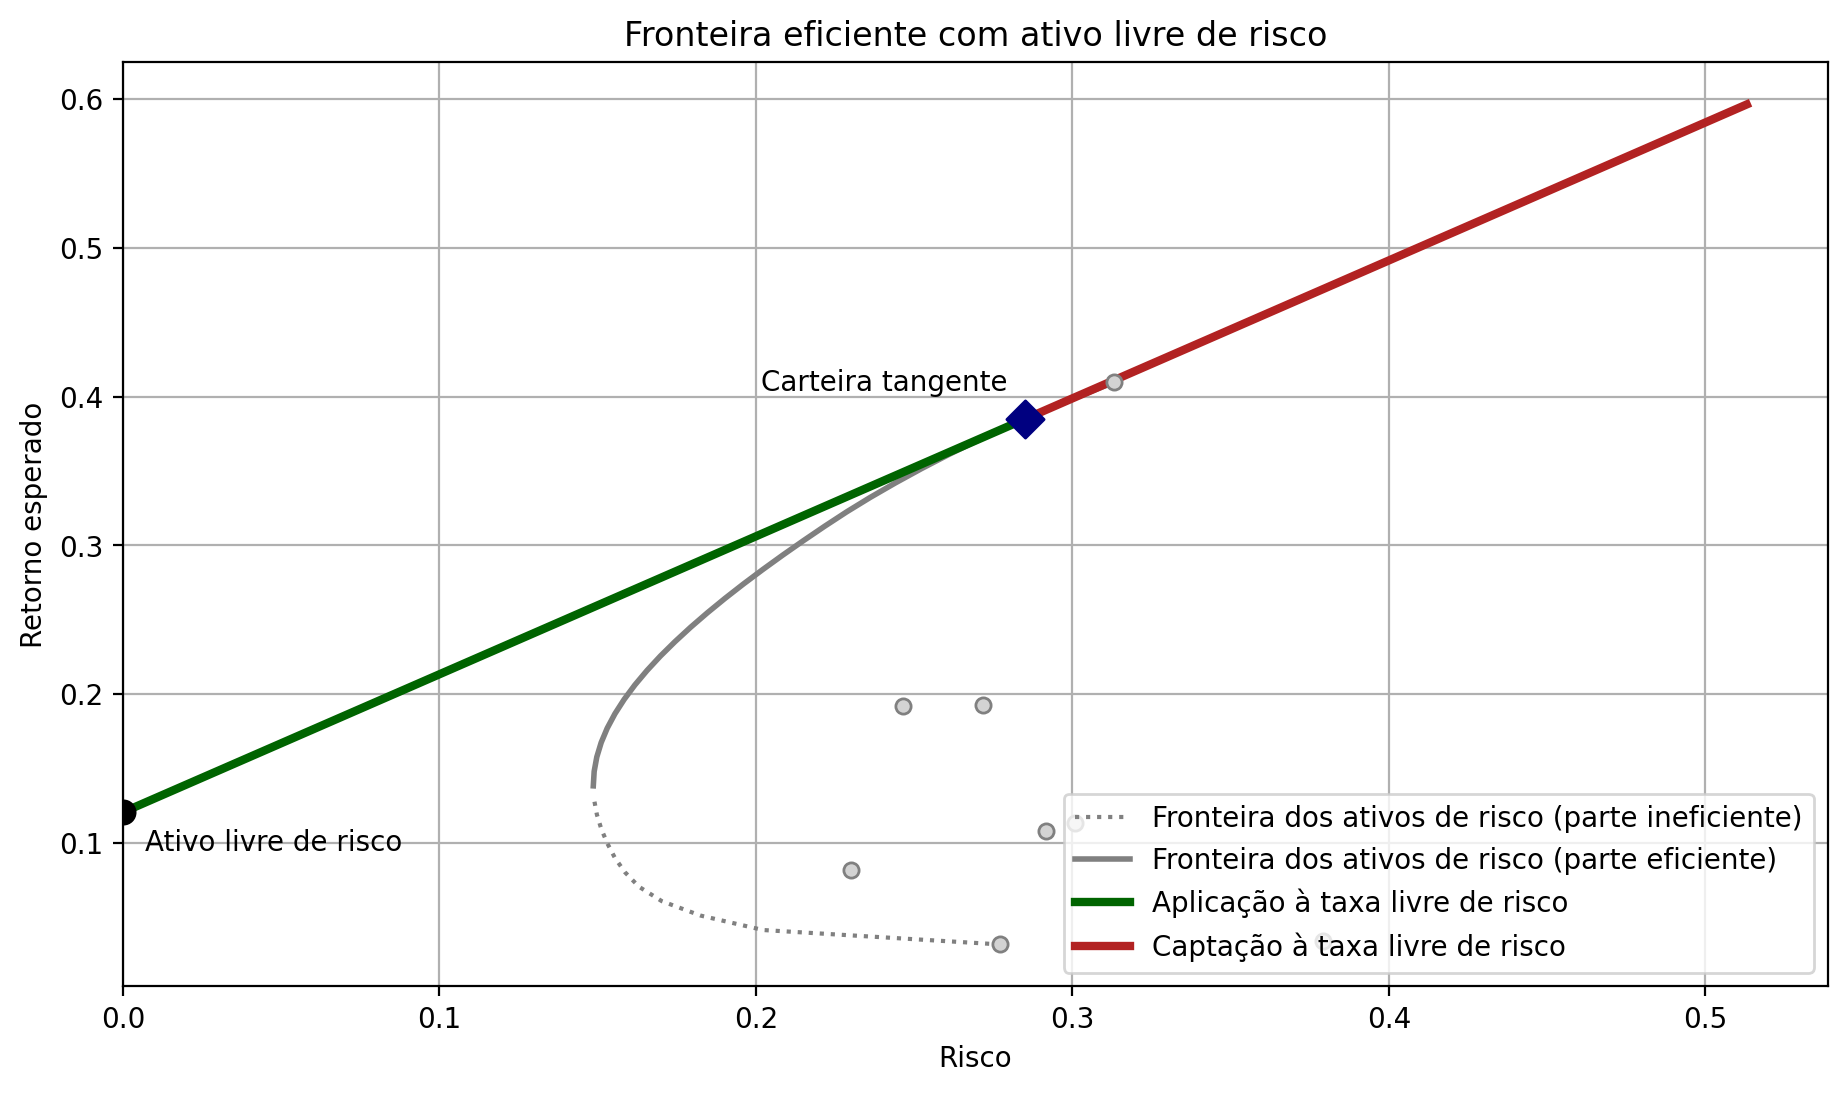
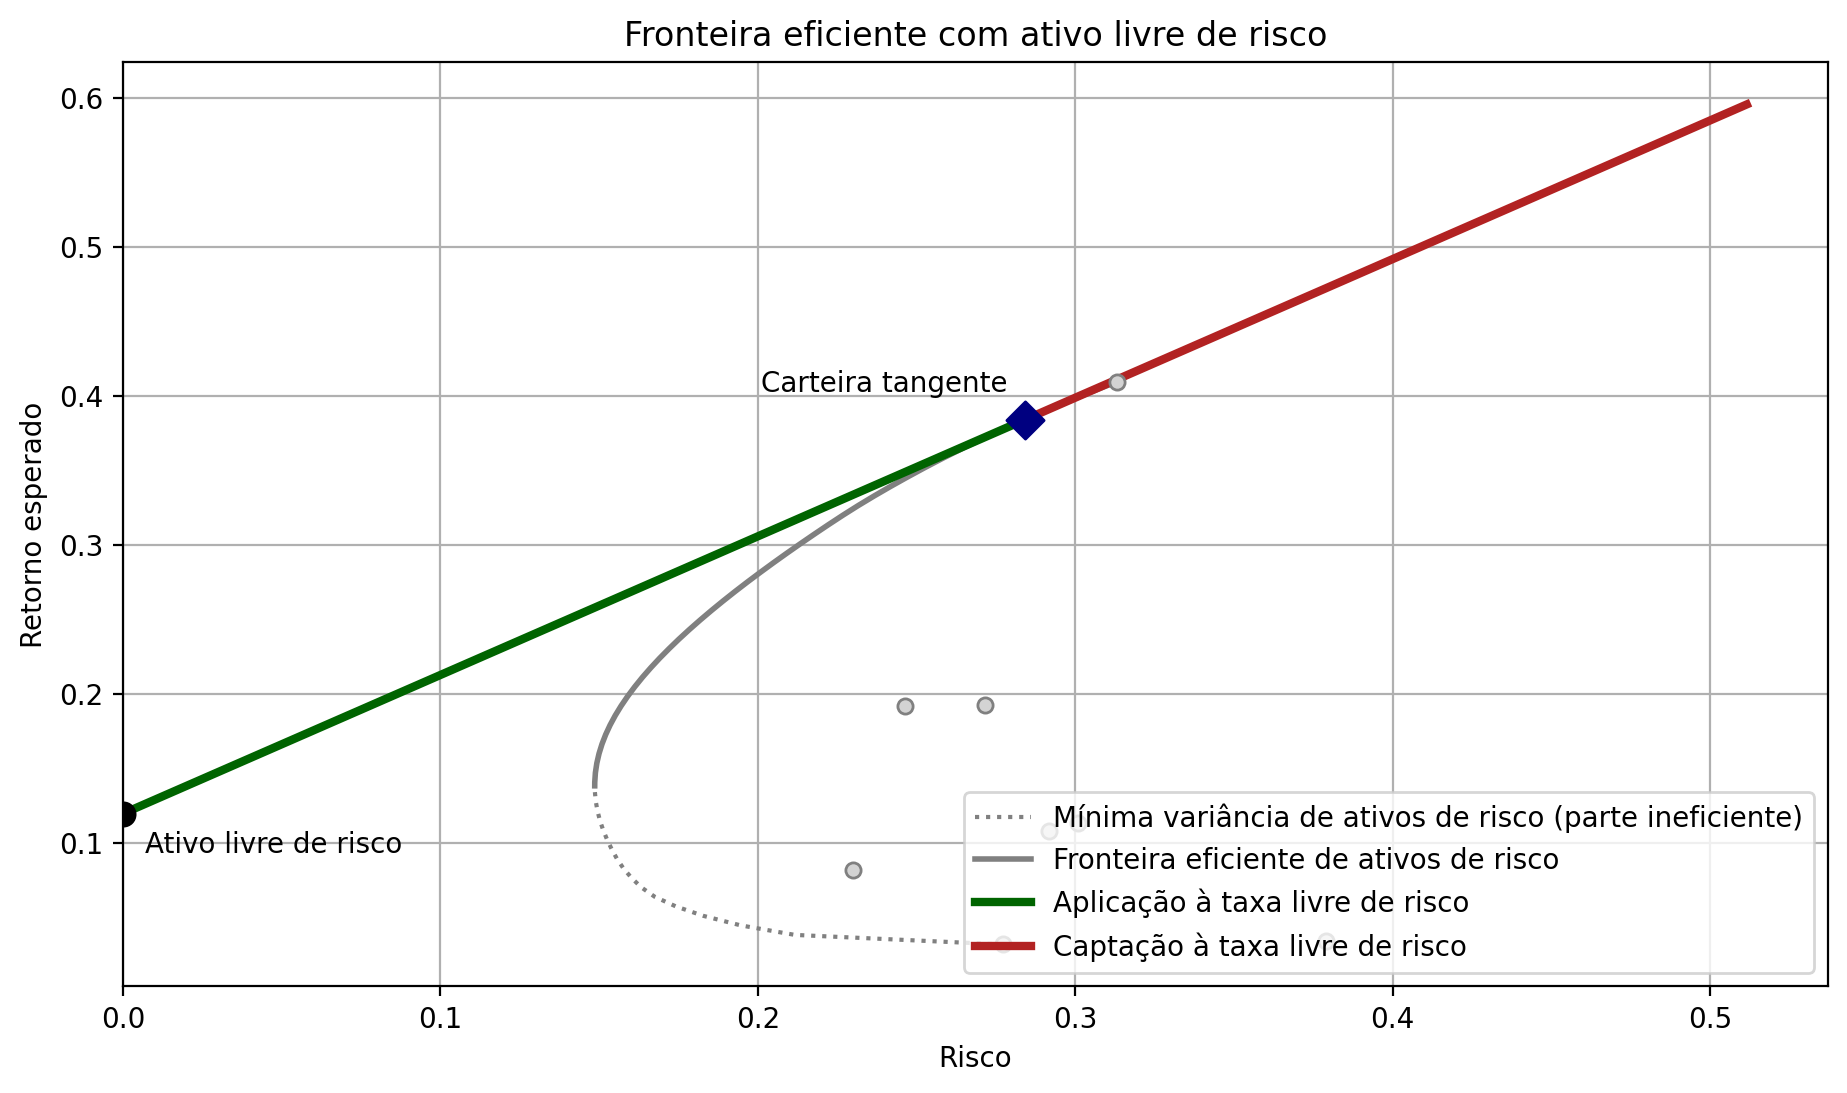
fronteira

diff --git a/teoria_de_carteiras.py b/teoria_de_carteiras.py
@@ -178,15 +178,17 @@ for rho, nome_arq, titulo in [(1.0, "rho1.png", r"Combinações com $\rho = 1$")
 peso_risco_zero = sig_B / (sig_A + sig_B)
 print("Peso de A que zera o risco quando rho = -1:", peso_risco_zero)
 
-# %% 9. Fronteira eficiente com vários ativos (slides 15 a 18)
+# %% 9. Conjunto de mínima variância e fronteira eficiente de ativos arriscados (slides 15 a 18)
 # Entradas: vetor de retornos esperados, matriz de covariância e limites para os pesos.
+# Para cada retorno-alvo, achamos a carteira de menor variância. Isso gera o conjunto de mínima variância (a "bala" inteira).
+# A fronteira eficiente é apenas a parte de cima, a partir da carteira de mínima variância global.
 mu = mu_anual.values
 cov = ret_diarios.cov().values * 252
 n = len(mu)
 limites = [(0.0, 1.0)] * n   # sem venda a descoberto
 
 w0 = np.ones(n) / n
-alvos = np.linspace(mu.min(), mu.max(), 40)
+alvos = np.linspace(mu.min(), mu.max(), 60)
 sig_front = []
 pesos_front = []
 
@@ -207,6 +209,13 @@ w_mv = res_mv.x
 mu_mv = w_mv @ mu
 sig_mv = np.sqrt(res_mv.fun)
 
+# Separação: parte eficiente (retorno acima do da carteira de mínima variância) e parte ineficiente (abaixo)
+mascara_ef = alvos >= mu_mv
+sig_ef = np.concatenate([[sig_mv], sig_front[mascara_ef]])
+ret_ef = np.concatenate([[mu_mv], alvos[mascara_ef]])
+sig_inef = np.concatenate([sig_front[~mascara_ef], [sig_mv]])
+ret_inef = np.concatenate([alvos[~mascara_ef], [mu_mv]])
+
 # Carteiras aleatórias para mostrar a "nuvem" de possibilidades
 rng = np.random.default_rng(42)
 w_rand = rng.dirichlet(np.ones(n), size=5000)
@@ -215,29 +224,30 @@ sig_rand = np.sqrt(np.einsum("ij,jk,ik->i", w_rand, cov, w_rand))
 
 fig, ax = plt.subplots()
 ax.scatter(sig_rand, mu_rand, s=4, color="lightgray", label="Carteiras aleatórias")
-ax.plot(sig_front, alvos, color="navy", linewidth=2, label="Fronteira eficiente")
-ax.scatter([sig_mv], [mu_mv], color="firebrick", s=70, zorder=3, label="Mínima variância")
+ax.plot(sig_inef, ret_inef, color="gray", linestyle="--", linewidth=2, label="Mínima variância (parte ineficiente)")
+ax.plot(sig_ef, ret_ef, color="navy", linewidth=3, label="Fronteira eficiente")
+ax.scatter([sig_mv], [mu_mv], color="firebrick", s=70, zorder=3, label="Carteira de mínima variância global")
 ax.scatter(sigma_anual.values, mu, color="darkgreen", s=30, label="Ativos individuais")
 ax.set_xlabel("Risco")
 ax.set_ylabel("Retorno esperado")
-ax.set_title("Fronteira eficiente")
+ax.set_title("Fronteira eficiente de ativos arriscados")
 ax.legend()
 fig.savefig("fronteira.png", dpi=200, bbox_inches="tight")
 plt.show()
 
 # %% 10. Fronteira eficiente: exemplo prático com a composição dos pesos (slide 19)
-# Gráfico de área empilhada mostrando como os pesos mudam ao longo da fronteira.
+# Gráfico de área empilhada mostrando como os pesos mudam ao longo da fronteira eficiente.
 fig, (ax1, ax2) = plt.subplots(1, 2, figsize=(14, 5))
-ax1.plot(sig_front, alvos, color="navy", linewidth=2)
+ax1.plot(sig_ef, ret_ef, color="navy", linewidth=2)
 ax1.scatter([sig_mv], [mu_mv], color="firebrick", s=70, zorder=3)
 ax1.set_xlabel("Risco")
 ax1.set_ylabel("Retorno esperado")
 ax1.set_title("Fronteira eficiente")
 
-ax2.stackplot(sig_front, pesos_front.T, labels=[t.replace(".SA", "") for t in tickers])
+ax2.stackplot(sig_front[mascara_ef], pesos_front[mascara_ef].T, labels=[t.replace(".SA", "") for t in tickers])
 ax2.set_xlabel("Risco da carteira na fronteira")
 ax2.set_ylabel("Peso")
-ax2.set_title("Composição ao longo da fronteira")
+ax2.set_title("Composição ao longo da fronteira eficiente")
 ax2.legend(loc="center left", bbox_to_anchor=(1.0, 0.5))
 fig.savefig("fronteiraexemplo.png", dpi=200, bbox_inches="tight")
 plt.show()
@@ -260,9 +270,9 @@ comparacao_pesos = pd.DataFrame({"amostral": w_mv, "shrinkage": res_mv_lw.x},
                                 index=[t.replace(".SA", "") for t in tickers]).round(3)
 print(comparacao_pesos)
 
-# %% 12. CAPM na prática: dados mensais (slides 21 e 22)
-# Retornos mensais dos últimos 5 anos, Ibovespa como mercado e CDI na curva como ativo livre de risco.
+# %% 12. Taxa livre de risco: CDI mensal do Banco Central
 # O CDI mensal (série 4391 do SGS) é buscado diretamente na API do Banco Central.
+# Ele serve de taxa livre de risco nas fronteiras com ativo livre de risco e, mais adiante, no CAPM.
 import requests
 from io import StringIO
 
@@ -284,75 +294,13 @@ cdi_mensal = cdi_bruto.set_index("data")["valor"]
 cdi_mensal.index = cdi_mensal.index.to_period("M")
 cdi_mensal.name = "cdi"
 
-precos_mensais = dados[["^BVSP", ticker_acao]].resample("ME").last()
-ret_mensal = precos_mensais.pct_change().dropna()
-ret_mensal.index = ret_mensal.index.to_period("M")
-
-base = ret_mensal.join(cdi_mensal, how="inner").dropna()
-base["premio_acao"] = base[ticker_acao] - base["cdi"]
-base["premio_mercado"] = base["^BVSP"] - base["cdi"]
-print(base.tail())
-print("Número de observações mensais:", len(base))
-
-# %% 13. Retornos da ação contra o Ibovespa (slide 23)
-fig, ax = plt.subplots()
-ax.scatter(base["^BVSP"], base[ticker_acao], color="navy", alpha=0.7)
-ax.axhline(0, color="black", linewidth=0.8)
-ax.axvline(0, color="black", linewidth=0.8)
-ax.set_xlabel("Retorno mensal do Ibovespa")
-ax.set_ylabel(f"Retorno mensal de {ticker_acao}")
-ax.set_title("Retornos mensais: ação x Ibovespa")
-fig.savefig("scatteracaoibov.png", dpi=200, bbox_inches="tight")
-plt.show()
-
-# %% 14. Regressão do CAPM com prêmios de risco (slide 24)
-# Y = beta0 + beta1 X + erro, com X o prêmio de risco de mercado e Y o prêmio de risco da ação.
-reg = stats.linregress(base["premio_mercado"], base["premio_acao"])
-beta0 = reg.intercept   # alfa de Jensen mensal
-beta1 = reg.slope       # beta da ação
-print("Alfa mensal :", beta0, " (erro padrão:", reg.intercept_stderr, ")")
-print("Beta        :", beta1, " (erro padrão:", reg.stderr, ")")
-print("R ao quadrado:", reg.rvalue**2)
-print("p-valor do beta:", reg.pvalue)
-
-# Conferência manual: beta = cov(X,Y) / var(X)
-beta_manual = base["premio_mercado"].cov(base["premio_acao"]) / base["premio_mercado"].var()
-print("Beta manual :", beta_manual)
-
-xx = np.linspace(base["premio_mercado"].min(), base["premio_mercado"].max(), 100)
-fig, ax = plt.subplots()
-ax.scatter(base["premio_mercado"], base["premio_acao"], color="navy", alpha=0.7)
-ax.plot(xx, beta0 + beta1 * xx, color="firebrick", linewidth=2, label=f"beta = {beta1:.2f}")
-ax.axhline(0, color="black", linewidth=0.8)
-ax.axvline(0, color="black", linewidth=0.8)
-ax.set_xlabel("Prêmio de risco do mercado (Ibovespa - CDI)")
-ax.set_ylabel(f"Prêmio de risco de {ticker_acao} (ação - CDI)")
-ax.set_title("CAPM: regressão dos prêmios de risco")
-ax.legend()
-fig.savefig("regressao.png", dpi=200, bbox_inches="tight")
-plt.show()
-
-# %% 15. Retorno esperado pelo CAPM (slide 21)
-# r_i = r_f + beta (r_m - r_f), com tudo anualizado em termos nominais.
-rf_anual = (1 + base["cdi"]).prod() ** (12 / len(base)) - 1
-rm_anual = (1 + base["^BVSP"]).prod() ** (12 / len(base)) - 1
-premio_mercado_anual = rm_anual - rf_anual
-
-ret_esperado_capm = rf_anual + beta1 * premio_mercado_anual
-ret_realizado_acao = (1 + base[ticker_acao]).prod() ** (12 / len(base)) - 1
-
-print("Taxa livre de risco anual (CDI)      :", rf_anual)
-print("Retorno anual do Ibovespa            :", rm_anual)
-print("Prêmio de risco de mercado anual     :", premio_mercado_anual)
-print("Retorno esperado pelo CAPM da ação   :", ret_esperado_capm)
-print("Retorno anualizado realizado da ação :", ret_realizado_acao)
-
-# %% 16. Fronteira eficiente com ativo livre de risco (aplicação e captação à mesma taxa)
-# Com um ativo livre de risco, a nova fronteira é a reta que sai de (0, rf) e tangencia a fronteira dos ativos de risco.
-# O trecho entre 0 e a carteira tangente é a aplicação à taxa livre de risco; o trecho além dela é a captação à taxa livre de risco.
-rf = base["cdi"].mean() * 12
+# Taxa livre de risco anual, nominal (média mensal x 12, consistente com a anualização dos retornos dos ativos)
+rf = cdi_mensal.mean() * 12
 print("Taxa livre de risco anual (CDI nominal):", rf)
 
+# %% 13. Fronteira eficiente com ativo livre de risco (aplicação e captação à mesma taxa)
+# Com um ativo livre de risco, a nova fronteira é a reta que sai de (0, rf) e tangencia a fronteira dos ativos de risco.
+# O trecho entre 0 e a carteira tangente é a aplicação à taxa livre de risco; o trecho além dela é a captação à taxa livre de risco.
 restr_soma = [{"type": "eq", "fun": lambda w: np.sum(w) - 1}]
 
 # Carteira tangente: maximiza o índice de Sharpe (mesmo problema com limites de 0 a 1 nos pesos)
@@ -374,14 +322,11 @@ ret_aplic = rf + sharpe_t * sig_aplic
 sig_capt = np.linspace(sig_t, 1.8 * sig_t, 50)
 ret_capt = rf + sharpe_t * sig_capt
 
-# Parte eficiente e parte ineficiente da fronteira dos ativos de risco
-mascara_ef = alvos >= mu_mv - 1e-9
-
 fig, ax = plt.subplots(figsize=(11, 6))
-ax.plot(sig_front[~mascara_ef], alvos[~mascara_ef], color="gray", linestyle=":", linewidth=1.5,
-        label="Fronteira dos ativos de risco (parte ineficiente)")
-ax.plot(sig_front[mascara_ef], alvos[mascara_ef], color="gray", linewidth=2,
-        label="Fronteira dos ativos de risco (parte eficiente)")
+ax.plot(sig_inef, ret_inef, color="gray", linestyle=":", linewidth=1.5,
+        label="Mínima variância de ativos de risco (parte ineficiente)")
+ax.plot(sig_ef, ret_ef, color="gray", linewidth=2,
+        label="Fronteira eficiente de ativos de risco")
 ax.plot(sig_aplic, ret_aplic, color="darkgreen", linewidth=3, label="Aplicação à taxa livre de risco")
 ax.plot(sig_capt, ret_capt, color="firebrick", linewidth=3, label="Captação à taxa livre de risco")
 ax.scatter(sigma_anual.values, mu, color="lightgray", edgecolor="gray", s=30, zorder=2)
@@ -402,7 +347,7 @@ fator = 1.5
 print(f"Para risco igual a {fator} vezes o da tangente: peso na tangente = {fator:.2f}, peso no ativo livre de risco = {1 - fator:.2f}")
 print("Retorno esperado correspondente:", rf + fator * (mu_t - rf))
 
-# %% 17. Fronteira eficiente com taxa de aplicação (lending) menor que taxa de captação (borrowing)
+# %% 14. Fronteira eficiente com taxa de aplicação (lending) menor que taxa de captação (borrowing)
 # O investidor aplica a rl e capta a rb, com rl < rb. Cada taxa gera sua própria carteira tangente.
 rl = rf
 spread_captacao = 0.03          # spread assumido de 3 pontos percentuais ao ano; altere à vontade
@@ -451,8 +396,8 @@ sig_prol_b = np.linspace(0, sig_tb, 50)
 ret_prol_b = rb + sharpe_b * sig_prol_b
 
 fig, ax = plt.subplots(figsize=(11, 6))
-ax.plot(sig_front[mascara_ef], alvos[mascara_ef], color="lightgray", linewidth=1.5,
-        label="Fronteira dos ativos de risco")
+ax.plot(sig_ef, ret_ef, color="lightgray", linewidth=1.5,
+        label="Fronteira eficiente de ativos de risco")
 ax.plot(sig_prol_l, ret_prol_l, color="gray", linestyle="--", linewidth=1, label="Prolongamentos que deixam de valer")
 ax.plot(sig_prol_b, ret_prol_b, color="gray", linestyle="--", linewidth=1)
 ax.plot(sig_aplic2, ret_aplic2, color="darkgreen", linewidth=3, label="Aplicação à taxa rl")
@@ -473,3 +418,68 @@ ax.set_title("Fronteira eficiente com taxa de aplicação menor que a taxa de ca
 ax.legend(loc="lower right")
 fig.savefig("fronteira_rl_rb.png", dpi=200, bbox_inches="tight")
 plt.show()
+
+# %% 15. CAPM na prática: dados mensais (slides 21 e 22)
+# Retornos mensais dos últimos 5 anos, Ibovespa como mercado e CDI na curva como ativo livre de risco.
+precos_mensais = dados[["^BVSP", ticker_acao]].resample("ME").last()
+ret_mensal = precos_mensais.pct_change().dropna()
+ret_mensal.index = ret_mensal.index.to_period("M")
+
+base = ret_mensal.join(cdi_mensal, how="inner").dropna()
+base["premio_acao"] = base[ticker_acao] - base["cdi"]
+base["premio_mercado"] = base["^BVSP"] - base["cdi"]
+print(base.tail())
+print("Número de observações mensais:", len(base))
+
+# %% 16. Retornos da ação contra o Ibovespa (slide 23)
+fig, ax = plt.subplots()
+ax.scatter(base["^BVSP"], base[ticker_acao], color="navy", alpha=0.7)
+ax.axhline(0, color="black", linewidth=0.8)
+ax.axvline(0, color="black", linewidth=0.8)
+ax.set_xlabel("Retorno mensal do Ibovespa")
+ax.set_ylabel(f"Retorno mensal de {ticker_acao}")
+ax.set_title("Retornos mensais: ação x Ibovespa")
+fig.savefig("scatteracaoibov.png", dpi=200, bbox_inches="tight")
+plt.show()
+
+# %% 17. Regressão do CAPM com prêmios de risco (slide 24)
+# Y = beta0 + beta1 X + erro, com X o prêmio de risco de mercado e Y o prêmio de risco da ação.
+reg = stats.linregress(base["premio_mercado"], base["premio_acao"])
+beta0 = reg.intercept   # alfa de Jensen mensal
+beta1 = reg.slope       # beta da ação
+print("Alfa mensal :", beta0, " (erro padrão:", reg.intercept_stderr, ")")
+print("Beta        :", beta1, " (erro padrão:", reg.stderr, ")")
+print("R ao quadrado:", reg.rvalue**2)
+print("p-valor do beta:", reg.pvalue)
+
+# Conferência manual: beta = cov(X,Y) / var(X)
+beta_manual = base["premio_mercado"].cov(base["premio_acao"]) / base["premio_mercado"].var()
+print("Beta manual :", beta_manual)
+
+xx = np.linspace(base["premio_mercado"].min(), base["premio_mercado"].max(), 100)
+fig, ax = plt.subplots()
+ax.scatter(base["premio_mercado"], base["premio_acao"], color="navy", alpha=0.7)
+ax.plot(xx, beta0 + beta1 * xx, color="firebrick", linewidth=2, label=f"beta = {beta1:.2f}")
+ax.axhline(0, color="black", linewidth=0.8)
+ax.axvline(0, color="black", linewidth=0.8)
+ax.set_xlabel("Prêmio de risco do mercado (Ibovespa - CDI)")
+ax.set_ylabel(f"Prêmio de risco de {ticker_acao} (ação - CDI)")
+ax.set_title("CAPM: regressão dos prêmios de risco")
+ax.legend()
+fig.savefig("regressao.png", dpi=200, bbox_inches="tight")
+plt.show()
+
+# %% 18. Retorno esperado pelo CAPM (slide 21)
+# r_i = r_f + beta (r_m - r_f), com tudo anualizado em termos nominais.
+rf_anual = (1 + base["cdi"]).prod() ** (12 / len(base)) - 1
+rm_anual = (1 + base["^BVSP"]).prod() ** (12 / len(base)) - 1
+premio_mercado_anual = rm_anual - rf_anual
+
+ret_esperado_capm = rf_anual + beta1 * premio_mercado_anual
+ret_realizado_acao = (1 + base[ticker_acao]).prod() ** (12 / len(base)) - 1
+
+print("Taxa livre de risco anual (CDI)      :", rf_anual)
+print("Retorno anual do Ibovespa            :", rm_anual)
+print("Prêmio de risco de mercado anual     :", premio_mercado_anual)
+print("Retorno esperado pelo CAPM da ação   :", ret_esperado_capm)
+print("Retorno anualizado realizado da ação :", ret_realizado_acao)
